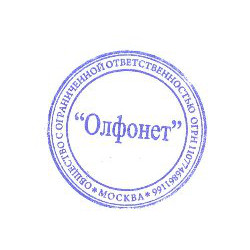
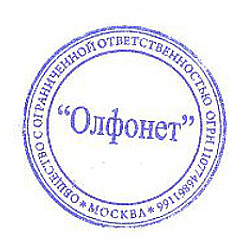
BIL-314. Organization / Person interface. Change one stamp, update comments and templates

Changed region(s): [[0.084, 0.084, 0.924, 0.924], [0.28, 0.896, 0.308, 0.924], [0.168, 0.812, 0.196, 0.84]]

diff --git a/views/documents/ru/bill_rub.php b/views/documents/ru/bill_rub.php
@@ -171,6 +171,9 @@ $payer_company = $document->getPayer();
         <p><i>Сумма прописью: <?= Wordifier::Make($document->sum - $document->sum_discount, $document->getCurrency()); ?></i></p>
 
         <table border="0" align=center cellspacing="1" cellpadding="0">
+            <col width="*" />
+            <col width="250" />
+            <col width="*" />
             <tbody>
                 <tr>
                     <td><?= $director->post_nominativus; ?></td>
@@ -178,7 +181,7 @@ $payer_company = $document->getPayer();
                         <td>
                             <?php if(MediaFileHelper::checkExists('SIGNATURE_DIR', $director->signature_file_name)):
                                 $image_options = [
-                                    'width' => 115,
+                                    'width' => 140,
                                     'border' => 0,
                                     'align' => 'top',
                                 ];
@@ -209,7 +212,7 @@ $payer_company = $document->getPayer();
                         <td>
                             <?php if (MediaFileHelper::checkExists('SIGNATURE_DIR', $accountant->signature_file_name)):
                                 $image_options = [
-                                    'width' => 115,
+                                    'width' => 140,
                                     'border' => 0,
                                     'align' => 'top',
                                 ];
@@ -241,11 +244,10 @@ $payer_company = $document->getPayer();
                         <td>&nbsp;</td>
                         <td align=left>
                             <?php if (MediaFileHelper::checkExists('STAMP_DIR', $organization->stamp_file_name)):
-                                //$organization->stamp_file_name = 'stampnew.gif';
                                 $image_options = [
                                     'width' => 200,
                                     'border' => 0,
-                                    'style' => 'position:relative; left:40; top:-200; z-index:-10; margin-bottom:-170px;',
+                                    'style' => 'position:relative; left:65; top:-200; z-index:-10; margin-bottom:-170px;',
                                 ];
 
                                 if ($inline_img):

diff --git a/views/documents/hu/bill_huf.php b/views/documents/hu/bill_huf.php
@@ -148,7 +148,7 @@ $payer_company = $document->getPayer();
                             <?php
                             if (MediaFileHelper::checkExists('SIGNATURE_DIR', $director->signature_file_name)):
                                 $image_options = [
-                                    'width' => 115,
+                                    'width' => 140,
                                     'border' => 0,
                                     'align' => 'top',
                                 ];
@@ -181,7 +181,7 @@ $payer_company = $document->getPayer();
                                 $image_options = [
                                     'width' => 200,
                                     'border' => 0,
-                                    'style' => 'position:relative; left:40; top:-200; z-index:-10; margin-bottom:-170px;',
+                                    'style' => 'position:relative; left:65; top:-200; z-index:-10; margin-bottom:-170px;',
                                 ];
 
                                 if ($inline_img):

diff --git a/classes/documents/DocumentReport.php b/classes/documents/DocumentReport.php
@@ -2,10 +2,9 @@
 
 namespace app\classes\documents;
 
-use app\models\Organization;
 use Yii;
 use yii\base\Object;
-use app\classes\Company;
+use yii\db\ActiveRecord;
 use app\classes\BillQRCode;
 use app\classes\Html2Mhtml;
 use app\models\Bill;
@@ -33,7 +32,7 @@ abstract class DocumentReport extends Object
     protected $optionsPDF = ' --quiet -L 10 -R 10 -T 10 -B 10';
 
     /**
-     * @return mixed
+     * @return ActiveRecord
      */
     public function getOrganization()
     {
@@ -44,6 +43,9 @@ abstract class DocumentReport extends Object
                 ->one();
     }
 
+    /**
+     * @return array
+     */
     public function getPayer()
     {
         return
